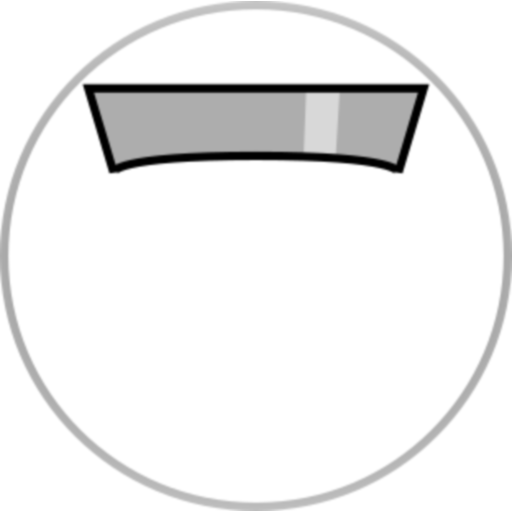
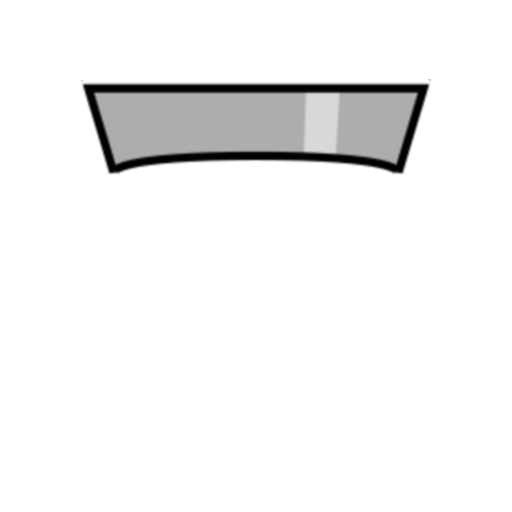
Modification of ship rendering

Changed region(s): [[0.0, 0.0, 1.0, 1.0]]

diff --git a/morph/morph-game/src/main/java/net/carmgate/morph/ui/renderers/entities/ship/ShipRenderer.java b/morph/morph-game/src/main/java/net/carmgate/morph/ui/renderers/entities/ship/ShipRenderer.java
@@ -34,7 +34,7 @@ import net.carmgate.morph.ui.renderers.utils.RenderUtils;
 public class ShipRenderer implements Renderer<Ship> {
 
 	private static Map<ComponentType, Texture> cmpTextures = new HashMap<>();
-	private static Texture shipBgTexture;
+	// private static Texture shipBgTexture;
 	private static Texture shipTexture;
 	@Inject private UIContext uiContext;
 
@@ -52,7 +52,7 @@ public class ShipRenderer implements Renderer<Ship> {
 						conf.getProperty("net.carmgate.morph.model.entities.physical.ship.components.MiningLaser.renderer.texture"))); //$NON-NLS-1$
 				BufferedInputStream repairerInputStream = new BufferedInputStream(ClassLoader.getSystemResourceAsStream(conf.getProperty("component.repairer.renderer.texture"))); //$NON-NLS-1$
 				BufferedInputStream propInputStream = new BufferedInputStream(ClassLoader.getSystemResourceAsStream(conf.getProperty("net.carmgate.morph.model.entities.physical.ship.components.SimplePropulsor.renderer.texture")))) { //$NON-NLS-1$
-			shipBgTexture = RenderUtils.getTexture("PNG", shipBgInputStream);
+			// shipBgTexture = RenderUtils.getTexture("PNG", shipBgInputStream);
 			shipTexture = RenderUtils.getTexture("PNG", shipInputStream);
 			cmpTextures.put(ComponentType.LASERS, RenderUtils.getTexture("PNG", laserInputStream));
 			cmpTextures.put(ComponentType.MINING_LASERS, RenderUtils.getTexture("PNG", mlInputStream));
@@ -93,14 +93,49 @@ public class ShipRenderer implements Renderer<Ship> {
 		}
 
 		float[] color = ship.getPlayer().getColor();
-		GL11.glColor4f(color[0] / 4, color[1] / 4, color[2] / 4, color[3] * alpha);
-		RenderUtils.renderSprite(width, shipBgTexture);
+		// GL11.glColor4f(color[0] / 4, color[1] / 4, color[2] / 4, color[3] * alpha);
+		// RenderUtils.renderSprite(width, shipBgTexture);
 		GL11.glColor4f(color[0], color[1], color[2], color[3] * alpha);
 		RenderUtils.renderSprite(width, shipTexture);
 
 		renderComponents(ship, alpha);
 
 		GL11.glRotatef(-ship.getRotate(), 0, 0, 1);
+
+		// Render energy and resource gauges
+		float delta = Math.max(30, 30 / zoom);
+		float thickness = Math.max(4, 4 / zoom);
+		float blurriness = 6 / zoom;
+		float offset = 0.2f; // must be inferior to 0.25
+		if (ship == uiContext.getSelectedShip()) {
+			if (ship.getEnergyMax() > 0) {
+				RenderUtils.renderPartialCircle(0.25f + offset, 0.75f - offset,
+						width / 2f + delta - thickness, width / 2f + delta + thickness, blurriness, blurriness,
+						new float[] { 0, 0, 0, 0f },
+						new float[] { 0.6f, 0.6f, 0.6f, 1 },
+						new float[] { 0, 0, 0, 0f });
+				RenderUtils.renderPartialCircle(0.25f + offset, 0.25f + offset + (0.5f - 2 * offset) * ship.getEnergy() / ship.getEnergyMax(),
+						width / 2f + delta - thickness, width / 2f + delta + thickness, blurriness, blurriness,
+						new float[] { 0, 0, 0, 0f },
+						new float[] { 0, 0.5f, 1, 1 },
+						new float[] { 0, 0, 0, 0f });
+			}
+			if (ship.getResourcesMax() > 0) {
+				GL11.glScalef(-1, 1, 1);
+				RenderUtils.renderPartialCircle(0.25f + offset, 0.75f - offset,
+						width / 2f + delta - thickness, width / 2f + delta + thickness, blurriness, blurriness,
+						new float[] { 0, 0, 0, 0f },
+						new float[] { 0.6f, 0.6f, 0.6f, 1 },
+						new float[] { 0, 0, 0, 0f });
+				RenderUtils.renderPartialCircle(0.25f + offset, 0.25f + offset + (0.5f - 2 * offset) * ship.getResources() / ship.getResourcesMax(),
+						width / 2f + delta - thickness, width / 2f + delta + thickness, blurriness, blurriness,
+						new float[] { 0, 0, 0, 0f },
+						new float[] { 139f / 255, 90f / 255, 43f / 255, 1 },
+						new float[] { 0, 0, 0, 0f });
+				GL11.glScalef(-1, 1, 1);
+			}
+		}
+
 		GL11.glScalef(1f / massScale, 1f / massScale, 0);
 
 		if (uiContext.getRenderMode() == RenderMode.DEBUG) {

diff --git a/morph/morph-game/src/main/java/net/carmgate/morph/GameMain.java b/morph/morph-game/src/main/java/net/carmgate/morph/GameMain.java
@@ -204,6 +204,7 @@ public class GameMain {
 		}
 
 		addWaves();
+		updateWorld();
 
 		// Rendering loop
 		while (true) {
@@ -461,33 +462,12 @@ public class GameMain {
 		ship.setEnergyMax(energyMax);
 		ship.setResourcesMax(resourcesMax);
 
-		// adjust stored amounts so that we do not have epsilon vibrations of stored amounts
-		// if (ship.getEnergy() * 0.99f > ship.getEnergyMax() && ship.getEnergyMax() > 0) {
-		// ship.setEnergy(ship.getEnergyMax());
-		// }
-		// if (ship.getResources() * 0.99f > ship.getResourcesMax() && ship.getResourcesMax() > 0) {
-		// ship.setResources(ship.getResourcesMax());
-		// }
-
-		// Energy and resources evolution with time
-		// float energyDelta = ship.getEnergyDt() * (world.getTime() - lastUpdateTime) / 1000;
-		// if (ship.getEnergy() + energyDelta < 0) {
-		// ship.setEnergy(0);
-		// } else {
-		// ship.setEnergy(Math.min(ship.getEnergy() + energyDelta, energyMax));
-		// }
-		// float resourcesDelta = ship.getResourcesDt() * (world.getTime() - lastUpdateTime) / 1000;
-		// if (ship.getResources() + resourcesDelta < 0) {
-		// ship.setResources(0);
-		// } else {
-		// ship.setResources(Math.min(ship.getResources() + resourcesDelta, resourcesMax));
-		// }
-		// float integrityDelta = ship.getIntegrityDt() * (world.getTime() - lastUpdateTime) / 1000;
-		// if (ship.getIntegrity() + integrityDelta < 0) {
-		// ship.setIntegrity(0);
-		// } else {
-		// ship.setIntegrity(ship.getIntegrity() + integrityDelta);
-		// }
+		if (ship.getEnergy() > ship.getEnergyMax()) {
+			ship.setEnergy(ship.getEnergyMax());
+		}
+		if (ship.getResources() > ship.getResourcesMax()) {
+			ship.setResources(ship.getResourcesMax());
+		}
 	}
 
 	private void updateWorld() {

diff --git a/morph/morph-game/src/main/java/net/carmgate/morph/model/entities/physical/ship/components/Component.java b/morph/morph-game/src/main/java/net/carmgate/morph/model/entities/physical/ship/components/Component.java
@@ -81,7 +81,7 @@ public abstract class Component implements Activable {
 	}
 
 	public final float getMaxStoredResources() {
-		Float value = conf.getFloatProperty(getClass().getCanonicalName() + ".maxStoredResource");
+		Float value = conf.getFloatProperty(getClass().getCanonicalName() + ".maxStoredResources");
 		if (value == null) {
 			value = 0f;
 		}
